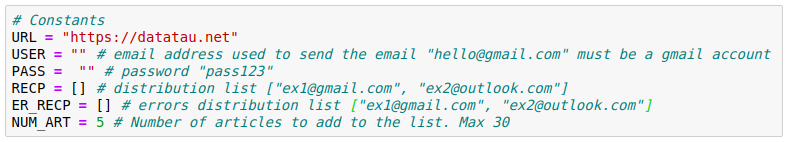
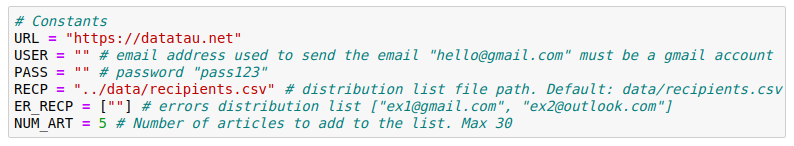
added recipients.csv, updated readme

diff --git a/datatau.py b/datatau.py
@@ -1,19 +1,21 @@
-# Scrapes https://datatau.net/ and sends to 5 articles by email (default=5). Stay ahead of the game!
+# Scrapes https://datatau.net/ and sends top articles by email. Stay ahead of the game!
 
 # Imports
 # import pandas as pd
 import bs4 as bs
 import requests
 import smtplib
+import os
+import csv
 from email.message import EmailMessage
 
 # Constants
 URL = "https://datatau.net"
 USER = "" # email address used to send the email "hello@gmail.com" must be a gmail account
 PASS =  "" # password "pass123"
-RECP = [] # distribution list ["ex1@gmail.com", "ex2@outlook.com"]
-ER_RECP = [] # errors distribution list ["ex1@gmail.com", "ex2@outlook.com"]
-NUM_ART = 5 # Number of articles to add to the list. Max 30
+RECP = "data/recipients.csv" # distribution list file path. Default: data/recipients.csv
+ER_RECP = [""] # errors distribution list ["ex1@gmail.com", "ex2@outlook.com"]
+NUM_ART = 10 # Number of articles to add to the list. Max 30
 
 
 def get_data(url):
@@ -24,16 +26,21 @@ def get_data(url):
     
     # Checks connection to DataTau
     if r.status_code != 200:
+        
+        # If Datatau.net were unreachable, an error message will notify emails set in the ER_RECP constant.
         print(f"Connection error. DataTau.net is unreachable. Error code: {r.status_code}")
-        return r.status_code
+        error_notification(r.status_code, user=USER, password=PASS, recepient=ER_RECP)
+        exit()
+        return None
     
     else:
+        # If connection was successful, parses Datatau.net
         soup = bs.BeautifulSoup(r.text, "lxml")
         t = soup.find("table", {"class": "itemlist"}) # gets main table
         r = t.find_all("tr", {"class": "athing"}) # parses main table, each row will be an item in the list
         
         # Extracts title and link from each item.
-        to_df = []
+        parsing = []
         for i in r:
             '''
             Example:
@@ -45,12 +52,52 @@ def get_data(url):
             link = item.find("a", {"class": "storylink"}).get("href")
 
             # Adding all titles and links to a unique list
-            title.append(link)
-            to_df.append(title)
+            title.append(link) # ["Title", "Webpage name", "URL"]
+            parsing.append(title) # [["Title", "Webpage name", "URL"], ["Title", "Webpage name", "URL"] , ...]
             
         print("DataTau.net was successfully parsed")
             
-        return to_df
+        return parsing
+
+
+def make_recipients_csv(rp_path: str):
+    """
+    :param rp_path: recipient.csv path. Here will be place the recipients list file.
+    :return: Creates new recipients file with its header and two examples. Then, stops the script.
+    """
+    with open(rp_path, "w") as new_file:
+        data_csv = [["Recipient"], ["new_recipient1@example.com"], ["new_recipient2@example.com"]]
+        csv_writer = csv.writer(new_file)
+        for line in data_csv:
+            csv_writer.writerow(line)
+
+        print(f"New recipients.csv file was added at the following path: {rp_path}\n"
+              f"Please, add some recipients before running the script again.")
+    exit()
+
+
+def recipients_list(rp_path: str):
+    """
+    :param rp_path: recipients.csv file
+    :return: a list comprising all recipients in the recipients.csv file [rep, rep2, rep3 ...]
+    """
+    # if recipients.csv file does not exist, it will be created.
+    if not os.path.exists(rp_path):
+        make_recipients_csv(rp_path)
+    else:
+        with open(rp_path, "r") as f:
+            csv_reader = csv.reader(f)
+            next(csv_reader)
+            rp_list = [line[0] for line in csv_reader]
+            f.close()
+            
+            # Checking if generic recipients.csv file was updated with real email addresses
+            if rp_list[0] == "new_recipient1@example.com":
+                print("Please, update recipients.csv file with real email addresses\n"
+                      "Nothing was sent")
+                exit()
+            else:
+                return rp_list
 
 
 # def generate_df(to_df):
@@ -85,13 +132,13 @@ def create_html_body(lst, num=5):
 
 def create_html_msg(html_body):
     """
-    Takes the previously generated HTML string and places it within a bigger HTML string 
+    Takes the previously generated HTML string (list of relevant links) and places it within a bigger HTML string 
     which will be used as the email's body. 
     """
     
     full_msg = f'''
-    <h4 style="color: #212121;">Hello, good-looking data scientist 😍</h4>
-    <h4 style="color: #212121;">Here you have today's top 5 articles!</h4>
+    <h4 style="color: #212121;">Hello, good-looking data scientist 😏</h4>
+    <h4 style="color: #212121;">Here you have today's top articles!</h4>
     <p>&nbsp;</p>
     {html_body}
     <p>&nbsp;</p>
@@ -103,15 +150,31 @@ def create_html_msg(html_body):
     return full_msg
 
 
-def send_email(html_msg, user=USER, password=PASS, recepient=RECP):
+def recipients_string(rp=RECP):
     """
-    Connects to the gmail server and sends data by email
+    Loads recipients in the recipients.csv file into a list, then creates a string of email addresses from it.
+    ["ex1@gmail.com", "ex2@outlook.com"] -> "ex1@gmail.com, ex2@outlook.com"
+    """
+
+    # If recipients.csv does not exist, a generic file will be created before terminating the script.
+    distribution_list = recipients_list(rp)
+    if distribution_list is None:
+        exit()
+    else:
+        rp_string = ", ".join(distribution_list)
+        return rp_string
+
+
+def send_email(html_msg, recipients, user=USER, password=PASS):
+    """
+    Connects to the gmail server and sends newsletter by email
     """
     
     msg = EmailMessage() 
-    msg["Subject"] = "This is what everyone is talking about!"
+    msg["Subject"] = "📡 This is what everyone is talking about!"
     msg["From"] = user
-    msg["To"] = ", ".join(recepient)
+    msg["To"] = "nicosduty@gmail.com"
+    msg["BCC"] = recipients
     msg.set_content("This message cannot be rendered. Sorry!")
     msg.add_alternative(html_msg, subtype='html')
     
@@ -124,21 +187,21 @@ def send_email(html_msg, user=USER, password=PASS, recepient=RECP):
     return None
 
 
-def error_notification(articles, user=USER, password=PASS, recepient=ER_RECP):
+def error_notification(articles, user=USER, password=PASS, recipient=ER_RECP):
     """
-    Connects to the gmail server and sends error report by email
+    Connects to the gmail server and sends error report
     """
     
     msg = EmailMessage() 
     msg["Subject"] = "⚠ DataTau.net is unreachable"
     msg["From"] = user
-    msg["To"] = ", ".join(recepient)
+    msg["To"] = ", ".join(recipient)
     msg.set_content(f"Status code error {articles}")
     
-    server = smtplib.SMTP_SSL("smtp.gmail.com", 465)  # setting server and port	
+    server = smtplib.SMTP_SSL("smtp.gmail.com", 465)  # setting server and port
     server.login(user, password)  # login
     server.send_message(msg)  # sending email
-    server.quit()  # terminates connection
+    server.quit()  # terminates the connection
     
     print("Error message sent!")
     return None
@@ -146,13 +209,10 @@ def error_notification(articles, user=USER, password=PASS, recepient=ER_RECP):
 
 def main():
     articles = get_data(URL)
-
-    if articles != 200:
-        html_body_msg = create_html_body(articles, num=NUM_ART)
-        full_html_msg = create_html_msg(html_body_msg)
-        send_email(full_html_msg)
-    else:
-        error_notification(articles)
+    html_body_msg = create_html_body(articles, num=NUM_ART)
+    full_html_msg = create_html_msg(html_body_msg)
+    rp_string = recipients_string(RECP)
+    send_email(full_html_msg, rp_string)
 
 
 if __name__ == "__main__":

diff --git a/README.md b/README.md
@@ -4,9 +4,9 @@ Scrapes and sends DataTau.net top articles by email.
 
 ## :boom: Data what?
 
-DataTau.net gathers the most relevant data related articles from a wide variety of websites and puts them in one place. It doesn't matter if your are a rookie or veteran, if you are more into data engineering than data science. You will certainly find something interesting to read and broaden your knowledge. It also has a dynamic ranking system which means that most liked articles will be placed first. If you havent checked it out yet, you should give it a shot [here](https://datatau.net/ "DataTau's Homepage").
+DataTau.net gathers the most relevant data related articles from a wide variety of websites into one place. It doesn't matter your level of expertise or if you are more into data engineering than data science, you will certainly find something interesting to read and broaden your knowledge. It has a dynamic ranking system which means that most liked articles will be placed first. If you haven't checked it out yet, you should give it a shot [here](https://datatau.net/ "DataTau's Homepage").
 
-However great it might be, this site has some shortcomings. It does not have a newsletter service, for instance. This is where DataTau Scraper comes into play. A simple pyhton script addresses the problem by scraping the site and sending those top articles by email to any recepient.
+However great it might be, this site has some shortcomings. It does not have a newsletter service, for instance. This is where DataTau Scraper comes into play. A python script tackles the problem by scraping the site and sending those top articles by email to any recipient.
 
 <p align="center">
   <img width="631" height="469" src="readme/res.png">
@@ -15,15 +15,15 @@ However great it might be, this site has some shortcomings. It does not have a n
 ## :wrench: Configuration
 ### Step 1
 
-Install python 3.7 and mandatory dependencies listed in the requirements file.
+Install Python 3.7 and mandatory dependencies listed in the requirements file.
 
-If you are using the anaconda distribution. Run the following command to create a new environment named "datatau"
+If you are using the Anaconda distribution. Run the following command to create a new environment named "datatau"
 
 ```
 conda env create -f requirements.yml
 ```
 
-if you happen not to be running conda, don't despair. There is also a requirements.txt file you can use to install all necessary modules. Remember to install python first.
+if you don't happen to be running conda, don't despair. There is also a requirements.txt file you can use to install all necessary modules. Remember to install python first.
 ```
 pip install python
 pip install -r requirements.txt
@@ -32,36 +32,44 @@ pip install -r requirements.txt
 **Note:** Environment managers differ from one another. It's strongly recommended to check its documentation.
 
 ### Step 2
-Once you have everything installed, you need to add the email account that will be sending the list and those who will be receiving it. The sender email must be a gmail account. 
+Once you have everything installed, you need to set the email account that will be sending the list and those who will be receiving it. The sender email must be a gmail account. 
 
-Open datatau.py script and update the following constants at the top:
+Open datatau.py script and update the following constants at the top of the file:
 
 *USER* -> sender account. Must be gmail.
 
 *PASS* -> sender account's password.
 
-*RECP* -> List. Email accounts who will receive email.
+*ER_RECP* -> Email account to notify if something goes awry.
 
-*ER_RECP* -> Email account to inform if something goes amiss.
-
-*NUM_ART* -> Amount of articles per email to send. Default 5. Max 30.
+*NUM_ART* -> Number of articles per list. Default 5. Max 30.
 
 <p align="center">
   <img width="788" height="142" src="readme/settings.png">
 </p>
 
+### Step 3
+Update recipients.csv file. There is no recipients limit, you can add as many as you want. Add or delete recipients modifying the file data/recipients.csv
+This csv file has only one column. Each recipient should be placed in one line. 
+
+<p align="center">
+  <img width="205" height="77" src="readme/recp.png">
+</p>
+
 ## :snake: Running the script
 
-Run it by typing `python datatau.py` on your terminal. If all settings were set up correctly, recepients should be receiving an email shortly after hitting enter. 
+Run it by typing `python datatau.py` on your terminal. If all settings were set up correctly, recipients should be receiving an email shortly after hitting enter. 
 
 ### :file_folder: Folder structure
 ```
 └── project
     ├── .gitignore
-    ├── requeriments.txt
-    ├── requeriments.yml
+    ├── requirements.txt
+    ├── requirements.yml
     ├── README.md
     ├── datatau.py
+    ├── data
+    │   └── recipients.csv
     └── notebooks
         └── DataTau.ipynb
 ```
